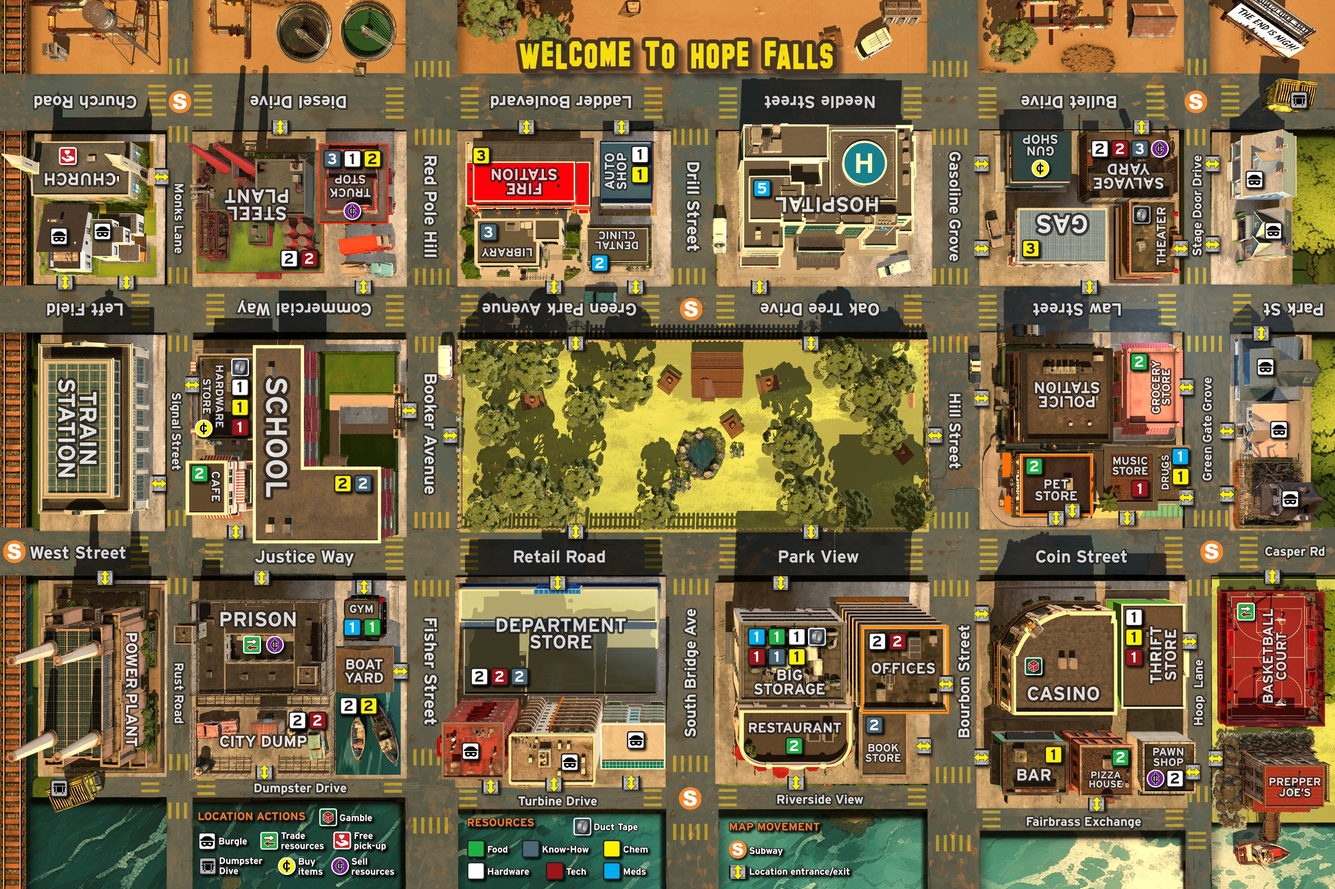
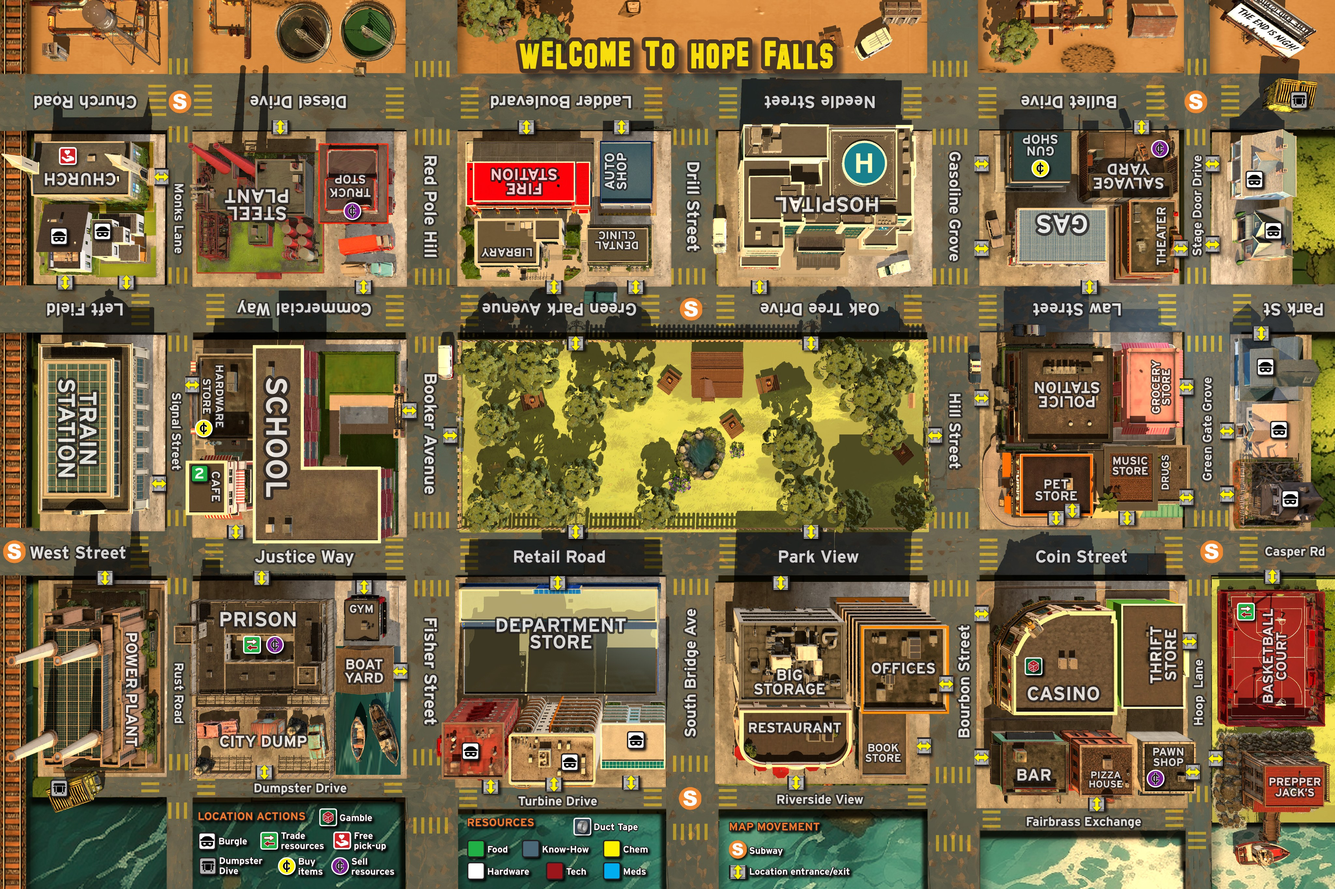
v1.170: board art without resource boxes; duct tape at Hardware Store
Claude-Session: https://claude.ai/code/session_019xH1rrSMyvmZdTk1mqi99f

diff --git a/src/main.js b/src/main.js
@@ -45,7 +45,7 @@ async function boot() {
   const rd = n => fetch('data/' + n + '.json').then(r => r.json());
   const [board, items, news, preppers, config, adjacent] = await Promise.all(['board', 'items', 'news', 'preppers', 'config', 'adjacent'].map(rd));
   D = E.init({ board, items, news, preppers, config, adjacent });
-  boardImg = await img('assets/board/board.jpg?v=163'); icons.coin = await img('assets/counters/prepcoin.webp');
+  boardImg = await img('assets/board/board.jpg?v=170'); icons.coin = await img('assets/counters/prepcoin.webp');
   for (const [k, f] of Object.entries(ICON)) icons[k] = await img(`assets/counters/${f}.webp`);
   $('#verL').textContent = VERSION; buildSeats(); bindLobby();
 }

diff --git a/src/version.js b/src/version.js
@@ -1,2 +1,2 @@
 // Bump this on every change; shown next to the APOC title.
-export const VERSION = 'v1.169';
+export const VERSION = 'v1.170';

diff --git a/RULES_LOG.md b/RULES_LOG.md
@@ -188,3 +188,4 @@ Post-APOC (Mission Packs), End Times cards, and any event or item whose effect i
 - Test-build tool: Thrift Store piles are laid out two per row so they stay inside the narrow building. (v1.167)
 - Test-build tool (sandbox): "Layout" row in the sandbox box. "Move piles…" lets you drag any resource pile on the board to where you want it, "Download" saves the layout as JSON (board pixel position of each pile, per space and resource), "Load…" reads one back, "Reset" returns to the default. Edits are remembered in your browser; the default layout every player gets comes from data/tokenlayout.json (Tim sends the downloaded file and it is built in). (v1.168)
 - Default resource-pile layout on the board is now Tim's layout (data/tokenlayout.json, 52 piles). The Big Storage duct tape pile was not in his file so it was placed between Hardware and Tech there; move it if needed. Sandbox edits in a browser sit on top of the default. (v1.169)
+- Board artwork updated again: the printed resource placement boxes are removed (the game's tokens show the starting resources instead); small label changes (Prepper Jack's). Hardware Store now starts with 1 Duct Tape as well (Hardware, Chem, Tech + Duct Tape), which comes out of the Duct Tape supply (10 to 9 in the pool). (v1.170)
